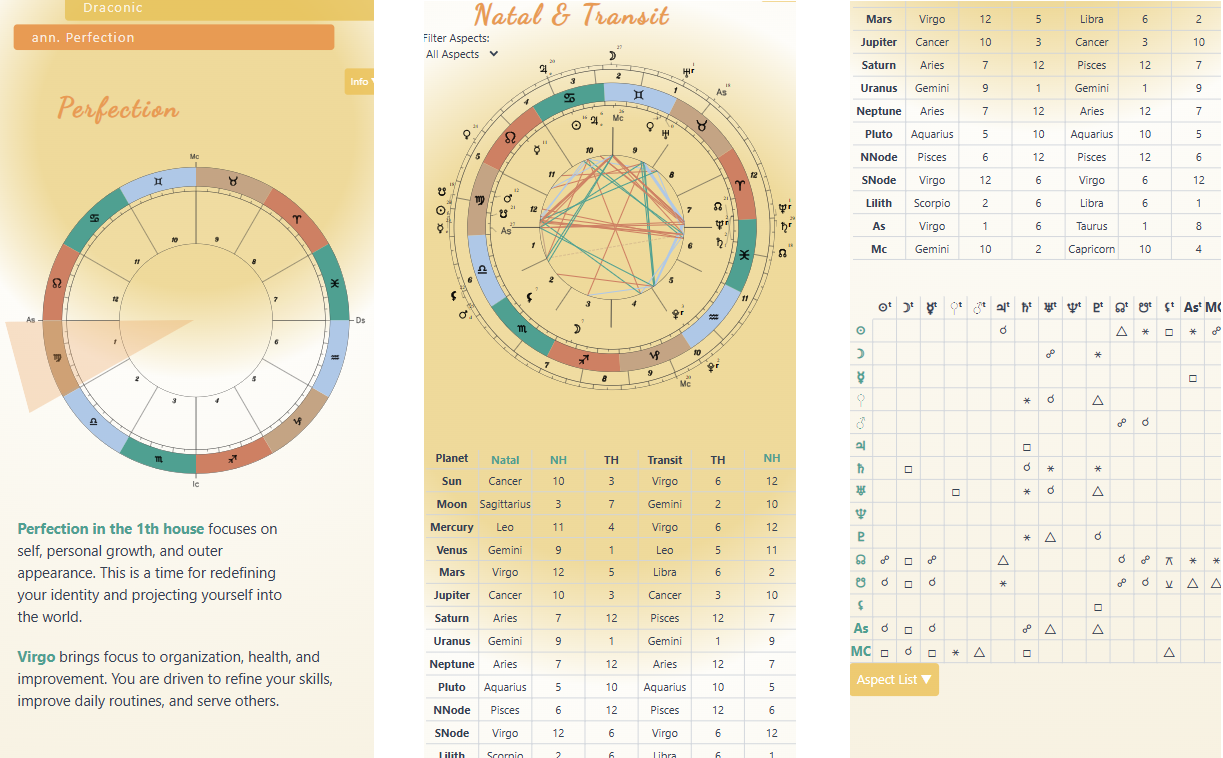
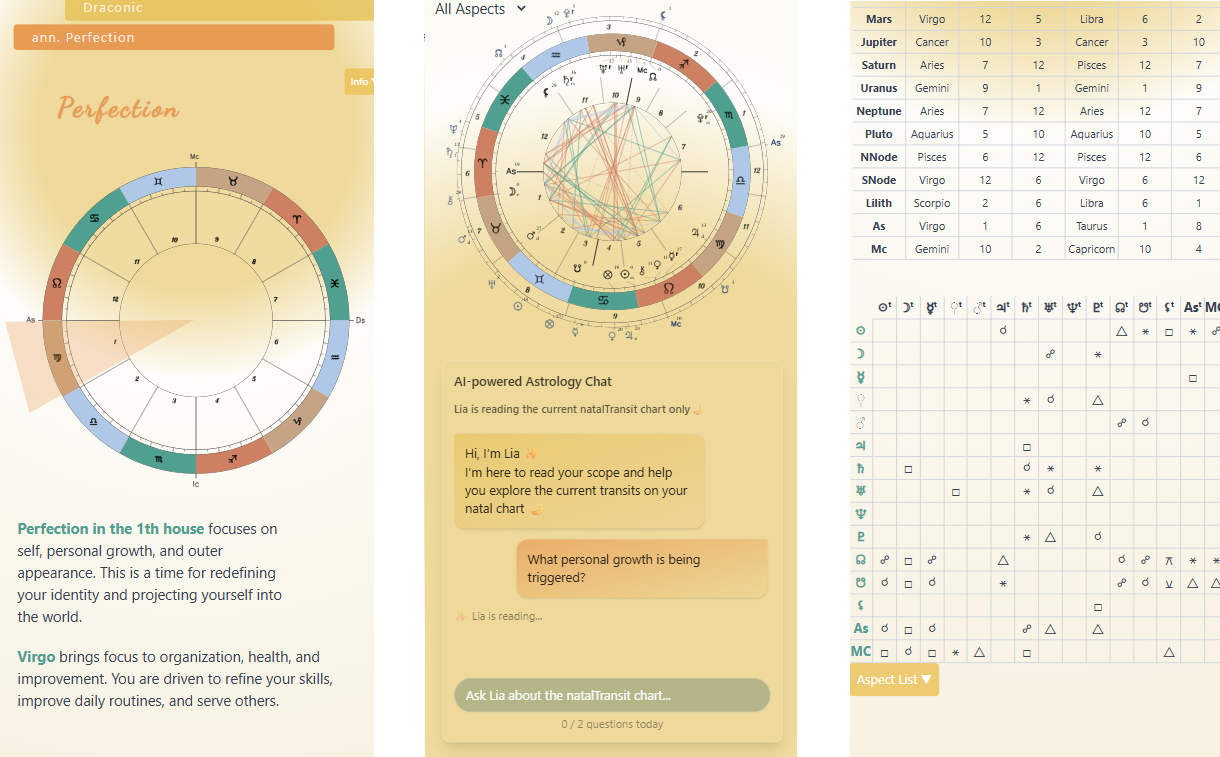
docs: update Liascope case study content and images

diff --git a/app/_components/CaseStudy/AstroReactNext.js b/app/_components/CaseStudy/AstroReactNext.js
@@ -26,6 +26,10 @@ export default function AstroReactNext() {
             <strong className="text-teal-900/60">MVC pattern</strong>. After validating the core domain logic, the application was refactored and
             rebuilt with React.js and Next.js.
           </p>
+          <p>
+            To enhance the user experience, an AI-powered astrology assistant was integrated using the Gemini API. This enables users to interact with
+            their charts conversationally and receive dynamic, context-aware interpretations generated from structured chart data.
+          </p>
           <ul className="list-disc ml-6 sm:ml-12 space-y-2">
             <li>Ensure full responsiveness and smooth UX across devices, including input handling and chart generation.</li>
             <li>Expand functionality with new features, such as save & load charts, input & location autocomplete.</li>
@@ -60,7 +64,8 @@ export default function AstroReactNext() {
               </p>
               <p className="mb-4">
                 In the React/Next.js version, SVG rendering is handled internally through custom hooks, enabling direct manipulation of chart
-                elements. This allows integrated retrograde indicators, dynamic filtering, and responsive scaling directly within the SVG.
+                elements. This allows integrated retrograde indicators, dynamic filtering, and responsive scaling directly within the SVG. The
+                application was further extended with an AI-powered assistant to support interactive, conversational chart interpretation.
               </p>
               <p className="mb-4">
                 The layout was also fully refactored to be responsive, replacing the desktop-only design of the original version and ensuring a
@@ -162,6 +167,10 @@ export default function AstroReactNext() {
               <strong>Copy to Clipboard:</strong> Copy chart data for AI or external analysis.
             </li>
             <li>
+              <strong>AI Assistant:</strong> Conversational chart interpretation powered by the Gemini API, allowing users to ask questions about
+              their charts.
+            </li>
+            <li>
               <strong>Additional UX Enhancements:</strong> Custom loader, cookie banner with policy routing, and guided modals for onboarding.
             </li>
           </ul>
@@ -235,6 +244,14 @@ export default function AstroReactNext() {
                     </Link>
                   </strong>{' '}
                   – Accurate timezone resolution for precise chart calculations.
+                </li>
+                <li>
+                  <strong className="cursor-pointer hover:text-teal-700">
+                    <Link href="https://ai.google.dev/" target="_blank" rel="noopener noreferrer">
+                      Gemini API
+                    </Link>
+                  </strong>{' '}
+                  – AI-powered conversational astrology assistant for chart interpretation with rate-limited usage.
                 </li>
                 <li>
                   <strong className="cursor-pointer hover:text-teal-700">
@@ -362,7 +379,10 @@ export default function AstroReactNext() {
             <li>
               Adapting and modernizing external libraries to correctly handle timezone conversions and retrograde calculations across environments
             </li>
-            <li>Structuring complex, multi-step forms with validation and conditional logic while maintaining a consistent user experience</li>
+            <li>
+              Structuring complex, multi-step forms with validation and conditional logic while maintaining a consistent user experience, alongside
+              integrating an AI API with prompt optimization and rate-limit management.
+            </li>
           </ul>
         </ChallengesLearnings>
 

diff --git a/app/_lib/config.js b/app/_lib/config.js
@@ -122,18 +122,7 @@ export const projects = [
     title: 'Daycare App (Fullstack-Next.js)',
     description:
       'Full-stack daycare management system enabling staff to track attendance, manage schedules, and generate structured reports. Built with a server-driven architecture using Next.js Server Actions and PostgreSQL Row Level Security (RLS) for secure data access. Fully responsive across desktop and mobile.',
-    tech: [
-      'React.js',
-      'Next.js',
-      'Supabase Auth',
-      'Supabase PostgreSQL',
-      'Supabase Storage',
-      'RLS',
-      'Server Actions',
-      'JWT Role-Based Access',
-      'Context API',
-      'Tailwind CSS',
-    ],
+    tech: ['React.js', 'Next.js', 'Supabase', 'Server Actions', 'JWT Role-Based Access', 'Context API', 'Tailwind CSS'],
     caseStudy: '/projects/casestudy/Daycare',
     link: 'https://daycare-app-five.vercel.app/',
     github: 'https://github.com/liascope/daycare-app',
@@ -143,20 +132,8 @@ export const projects = [
     logo: '/astroReact/0.png',
     title: 'Astrology App (React/Next.js)',
     description:
-      'Interactive astrology charting app with automated transit calculations, multi-chart generation, and dynamic SVG visualizations. Refactored from Vanilla JS to React and Next.js to support complex state, reusable chart logic, and responsive rendering.',
-    tech: [
-      'React.js',
-      'Next.js',
-      'Tailwind CSS',
-      'Context API',
-      'TanstackQuery',
-      'React Hook Form',
-      'Framer Motion',
-      'SVG',
-      '@astrodraw/astrochart',
-      'js_astro',
-      'REST APIs',
-    ],
+      'Interactive astrology charting app with automated transit calculations, multi-chart generation, and dynamic SVG visualizations. Refactored from Vanilla JS to React and Next.js to support complex state, reusable chart logic, and responsive rendering. Added AI-powered chat (Gemini API) for real-time astrology interpretations.',
+    tech: ['React.js', 'Next.js', 'Tailwind CSS', 'Context API', 'TanStack Query', 'React Hook Form', 'Framer Motion', 'SVG', 'REST APIs'],
     caseStudy: '/projects/casestudy/LiascopeAstrologyReactNext',
     link: 'https://liascope.vercel.app/',
     github: 'https://github.com/liascope/liascope-astrology',
@@ -167,7 +144,7 @@ export const projects = [
     title: 'Task Manager (React.js, Redux Toolkit & TypeScript)',
     description:
       'Task management app separating daily tasks, long-term planning, and shopping lists. Refactored from Vanilla JS to React with Redux Toolkit and TypeScript for predictable state management, persistent storage and catching type-related errors early.',
-    tech: ['React.js', 'TypeScript', 'Redux Toolkit', 'Tailwind CSS', 'Vite', 'React Router', 'Custom Hooks', 'LocalStorage', 'Framer Motion'],
+    tech: ['React.js', 'TypeScript', 'Redux Toolkit', 'Tailwind CSS', 'Vite', 'React Router', 'Framer Motion'],
     caseStudy: '/projects/casestudy/Todoezel',
     link: 'https://todoezel-rtk.vercel.app/',
     github: 'https://github.com/liascope/todoezel-rtk',
